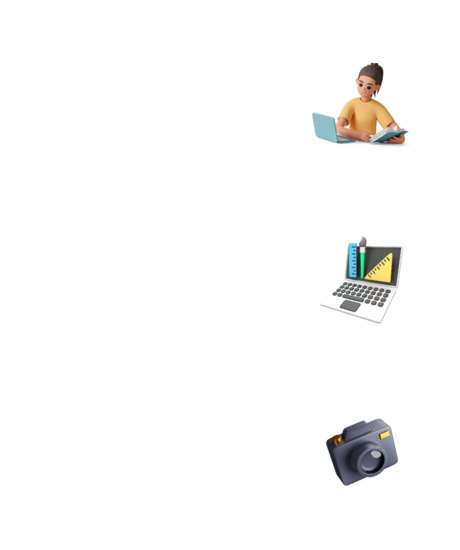
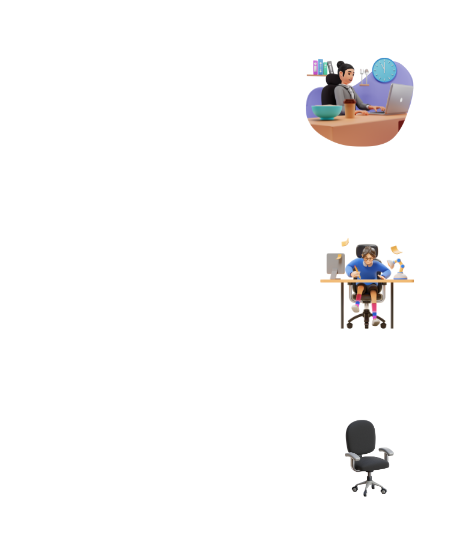
Visual fixes + added works

Changed region(s): [[0.6391, 0.0927, 0.913, 0.2782], [0.7, 0.4327, 0.913, 0.6182], [0.7, 0.7418, 0.8826, 0.8964]]

diff --git a/src/Components/Work.js b/src/Components/Work.js
@@ -4,10 +4,12 @@ import { fadeIn } from "../variants";
 import Img1 from "../assets/portfolio-img1.png";
 import Img2 from "../assets/portfolio-img2.png";
 import Img3 from "../assets/portfolio-img3.png";
+import Img4 from "../assets/portfolio-img4.png";
+import Img5 from "../assets/portfolio-img5.png";
 
 const Work = () => {
   return (
-    <section id="work" className="section">
+    <section id="work" className="section mt-64">
       <div className="container mx-auto">
         <div className="flex flex-col lg:flex-row gap-x-10">
           <motion.div
@@ -56,17 +58,40 @@ const Work = () => {
               />
 
               {/* pretitle */}
-              <div className="absolute -bottom-full left-12 group-hover:bottom-[110px] lg:group-hover:bottom-24 transition-all duration-500 z-50 leading-tight">
+              <div className="absolute -bottom-full left-12 group-hover:bottom-[110px] lg:group-hover:bottom-24 transition-all duration-500 z-40 leading-tight">
                 <span className="text-gradient">
                   Java Swing + SQL for Desktop (IN PROCESS)
                 </span>
               </div>
 
               {/* title */}
-              <div className="absolute -bottom-full left-12 group-hover:bottom-[40px] transition-all duration-700 z-50 mt-50 lg:group-hover:bottom-14">
+              <div className="absolute -bottom-full left-12 group-hover:bottom-[40px] transition-all duration-700 z-40 mt-50 lg:group-hover:bottom-14">
                 <span className="text-2xl lg:text-3xl text-white">
                   Inventory Management System
                 </span>
+              </div>
+            </div>
+
+            {/* 4 */}
+            <div className="group relative overflow-hidden border-2 border-white/50 rounded-xl lg:mt-4">
+              {/* overlay */}
+              <div className="group-hover:bg-black/80 w-full h-full absolute z-40 transition-all duration-300"></div>
+
+              {/* img */}
+              <img
+                className="group-hover:scale-125 h-[20rem] object-cover transition-all duration-500"
+                src={Img4}
+                alt=""
+              />
+
+              {/* pretitle */}
+              <div className="absolute -bottom-full left-12 group-hover:bottom-24 transition-all duration-500 z-40">
+                <span className="text-gradient">Traditional Web + CMS (NOT LAUNCHED)</span>
+              </div>
+
+              {/* title */}
+              <div className="absolute -bottom-full left-12 group-hover:bottom-14 transition-all duration-700 z-40">
+                <span className="text-3xl text-white">OsoPanda</span>
               </div>
             </div>
           </motion.div>
@@ -78,7 +103,7 @@ const Work = () => {
             viewport={{ once: false, amount: 0.3 }}
             className="flex-1 flex flex-col gap-y-10"
           >
-            {/* 1 */}
+            {/* 2 */}
             <div className="group relative overflow-hidden border-2 border-white/50 rounded-xl">
               {/* overlay */}
               <div className="group-hover:bg-black/80 w-full h-full absolute z-40 transition-all duration-300"></div>
@@ -90,12 +115,12 @@ const Work = () => {
               />
 
               {/* pretitle */}
-              <div className="absolute -bottom-full left-12 group-hover:bottom-24 transition-all duration-500 z-50">
+              <div className="absolute -bottom-full left-12 group-hover:bottom-24 transition-all duration-500 z-40">
                 <span className="text-gradient">Traditional Web + CMS</span>
               </div>
 
               {/* title */}
-              <div className="absolute -bottom-full left-12 group-hover:bottom-14 transition-all duration-700 z-50">
+              <div className="absolute -bottom-full left-12 group-hover:bottom-14 transition-all duration-700 z-40">
                 <a
                   className="text-3xl text-white"
                   href="https://full-tecno-luciardrgz.vercel.app/"
@@ -120,13 +145,36 @@ const Work = () => {
               />
 
               {/* pretitle */}
-              <div className="absolute -bottom-full left-12 group-hover:bottom-24 transition-all duration-500 z-50">
+              <div className="absolute -bottom-full left-12 group-hover:bottom-24 transition-all duration-500 z-40">
                 <span className="text-gradient">Android (PROTOTYPED)</span>
               </div>
 
               {/* title */}
-              <div className="absolute -bottom-full left-12 group-hover:bottom-14 transition-all duration-700 z-50">
+              <div className="absolute -bottom-full left-12 group-hover:bottom-14 transition-all duration-700 z-40">
                 <span className="text-3xl text-white">Tiki Tiki</span>
+              </div>
+            </div>
+
+            {/* 5 */}
+            <div className="group relative overflow-hidden border-2 border-white/50 rounded-xl lg:mt-4">
+              {/* overlay */}
+              <div className="group-hover:bg-black/80 w-full h-full absolute z-40 transition-all duration-300"></div>
+
+              {/* img */}
+              <img
+                className="group-hover:scale-125 h-[20rem] object-cover transition-all duration-500"
+                src={Img5}
+                alt=""
+              />
+
+              {/* pretitle */}
+              <div className="absolute -bottom-full left-12 group-hover:bottom-24 transition-all duration-500 z-40">
+                <span className="text-gradient">Landing Page (FINISHED)</span>
+              </div>
+
+              {/* title */}
+              <div className="absolute -bottom-full left-12 group-hover:bottom-14 transition-all duration-700 z-40">
+                <span className="text-3xl text-white">MTM Electromecánica</span>
               </div>
             </div>
           </motion.div>

diff --git a/src/Components/Present.js b/src/Components/Present.js
@@ -5,21 +5,21 @@ import { fadeIn } from "../variants";
 
 const present = [
   {
-    title: "Studying",
+    title: "Working",
     description:
-      " I've just finished my University Programming Degree at UTN Mar del Plata with an 8.73 grade, but I keep on learning, as most of IT gang does.",
+      "I'm a backend dev at Baufest, a software company that provides solutions for different industries. I'm working with an awesome team in fintech with Java and Spring Boot!",
     link: "https://mdp.utn.edu.ar/tecnicatura/tecnico_universitario_en_programacion/",
   },
   {
-    title: "Designing",
+    title: "Studying",
     description:
-      "I'm learning React for the Frontend and I do enjoy using Corel Draw, Adobe software as Illustrator, Premiere, Lightroom & Photoshop!",
-    link: "https://www.instagram.com/driftdisenos/",
+      " I've graduated from a University Programming Degree at UTN Mar del Plata with an 8.7 grade, but I keep on learning, as most of IT gang does.",
+    link: "https://mdp.utn.edu.ar/tecnicatura/tecnico_universitario_en_programacion/",
   },
   {
-    title: "Photographing + Filmmaking",
+    title: "Leaving my PC",
     description:
-      "Photographing or filming for any occasion are things I used to do as a hobby, now I do it for money but I hope to take it up again as 'just-a hobby' soon :)",
+      "To go to the gym, drinking mate at the coast, taking pictures of cars, learning car mechanics and watching series.",
     link: "https://www.instagram.com/_fotosporquesi/",
   },
 ];

diff --git a/src/index.css b/src/index.css
@@ -66,7 +66,7 @@
     @apply bg-gradient-to-r text-transparent bg-clip-text from-[#42A6E3] to-[#56ff56] font-bold font-primary hover:from-[#ffffff] hover:to-[#b1b1b1];
   }
   .section {
-    @apply py-8 lg:py-24 lg:h-screen flex items-center;
+    @apply py-24 lg:py-24 lg:h-screen flex items-center;
   }
   .text-shadow-lg {
     text-shadow: 0 0px 15px rgba(106, 255, 0, 0.822);

diff --git a/src/Components/Contact.js b/src/Components/Contact.js
@@ -31,7 +31,7 @@ const Contact = () => {
   const [done, setDone] = useState(false);
 
   return (
-    <section id="contact" className="py-16 lg:section">
+    <section id="contact" className="py-11 lg:pt-48 lg:pb-24">
       <div className="container mx-auto">
         <div className="flex flex-col lg:flex-row">
           {/* text */}

diff --git a/src/Components/Future.js b/src/Components/Future.js
@@ -1,6 +1,6 @@
 import React from "react";
 import { motion } from "framer-motion";
-import { fadeIn } from "../variants";
+import { fadeIn } from "../variants.js";
 import useMediaQuery from "../useMediaQuery.js";
 
 const Future = () => {
